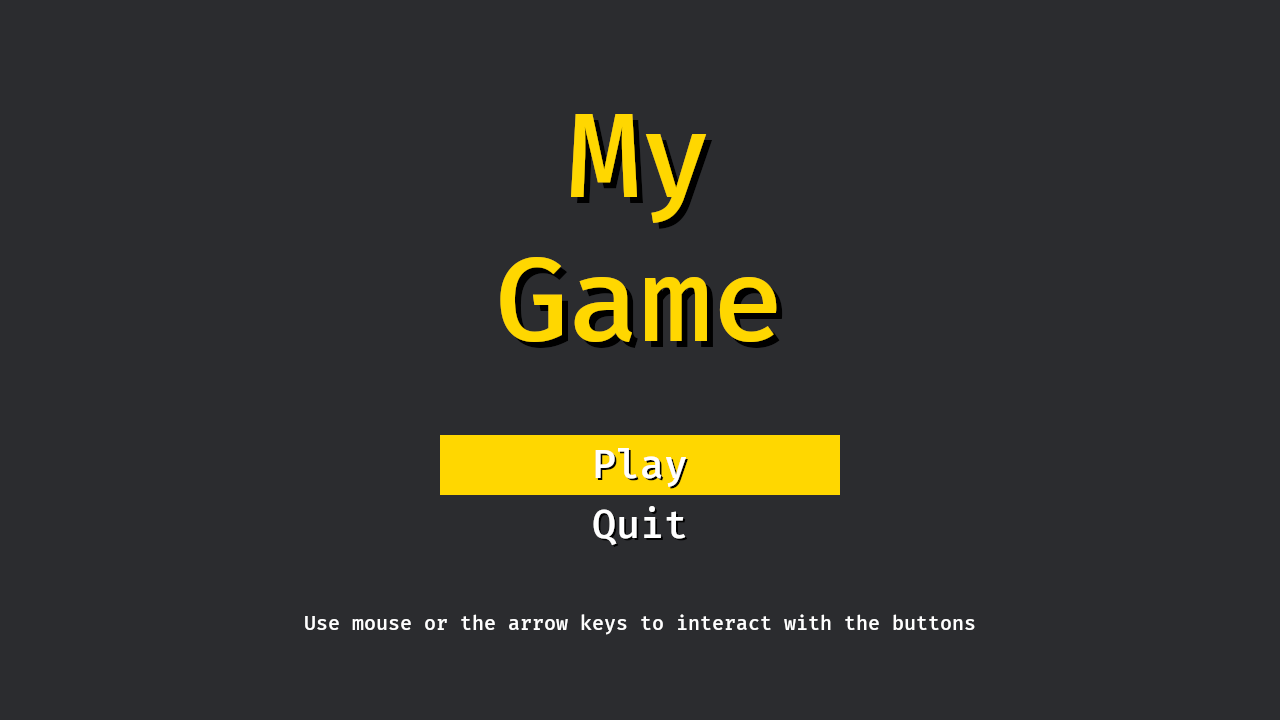
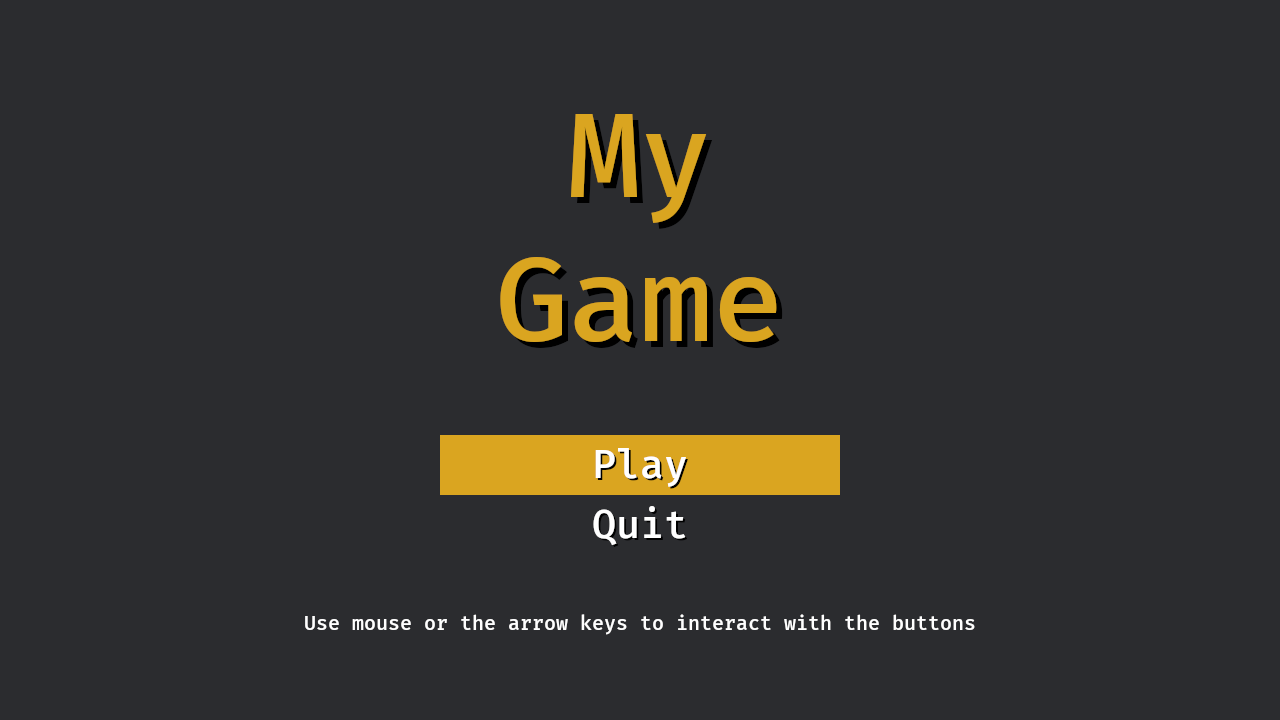
Change gold color to goldenrod in examples

Changed region(s): [[0.3438, 0.5806, 0.6562, 0.7028], [0.375, 0.3361, 0.625, 0.4889], [0.4375, 0.1528, 0.5625, 0.3056]]

diff --git a/examples/main_menu.rs b/examples/main_menu.rs
@@ -41,10 +41,10 @@ fn spawn_main_menu(mut commands: Commands) {
     let actions = Container::new();
     let footer = Container::new();
 
-    let title = EmbossedText::extra_large("My\nGame", font).color(palettes::css::GOLD.into());
+    let title = EmbossedText::extra_large("My\nGame", font).color(palettes::css::GOLDENROD.into());
     let play = UiButton::rectangle()
         .id(PLAY_BUTTON_ID)
-        .background_color(palettes::css::GOLD.into());
+        .background_color(palettes::css::GOLDENROD.into());
     let play_text = EmbossedText::medium("Play", font);
     let quit = UiButton::rectangle().id(QUIT_BUTTON_ID);
     let quit_text = EmbossedText::medium("Quit", font);
@@ -119,7 +119,7 @@ fn update_buttons(
 ) {
     for (button_data, mut background_color) in &mut query {
         if button_data.id == selected_button.id {
-            *background_color = palettes::css::GOLD.into();
+            *background_color = palettes::css::GOLDENROD.into();
         } else {
             *background_color = Color::NONE.into();
         }

diff --git a/examples/readme.rs b/examples/readme.rs
@@ -20,10 +20,10 @@ fn spawn_ui(mut commands: Commands) {
     let main_container = Container::height(Val::Px(500.0)).justify_between();
 
     // Customize components fluently using a builder-lite pattern
-    let title = EmbossedText::large("My Game", font).color(palettes::css::GOLD.into());
+    let title = EmbossedText::large("My Game", font).color(palettes::css::GOLDENROD.into());
 
     // UiButton provides a button with opinionated settings
-    let play = UiButton::rectangle().background_color(palettes::css::GOLD.into());
+    let play = UiButton::rectangle().background_color(palettes::css::GOLDENROD.into());
     let play_text = EmbossedText::medium("Play", font);
 
     let by = SimpleText::small("By me", font);

diff --git a/examples/hud.rs b/examples/hud.rs
@@ -33,7 +33,7 @@ fn spawn_hud(mut commands: Commands) {
         .justify_between();
     let bottom = Container::new();
 
-    let level = EmbossedText::medium("Level 1", font).color(palettes::css::GOLD.into());
+    let level = EmbossedText::medium("Level 1", font).color(palettes::css::GOLDENROD.into());
     let jumps = DynamicTextBuilder::medium("Jumps: ", font)
         .initial_dynamic_text("0")
         .id(JUMPS_TEXT_ID);

diff --git a/README.md b/README.md
@@ -30,10 +30,10 @@ fn spawn_ui(mut commands: Commands) {
     let main_container = Container::height(Val::Px(500.0)).justify_between();
 
     // Customize components fluently using a builder-lite pattern
-    let title = EmbossedText::large("My Game", font).color(palettes::css::GOLD.into());
+    let title = EmbossedText::large("My Game", font).color(palettes::css::GOLDENROD.into());
 
     // UiButton provides a button with opinionated settings
-    let play = UiButton::rectangle().background_color(palettes::css::GOLD.into());
+    let play = UiButton::rectangle().background_color(palettes::css::GOLDENROD.into());
     let play_text = EmbossedText::medium("Play", font);
 
     let by = SimpleText::small("By me", font);
